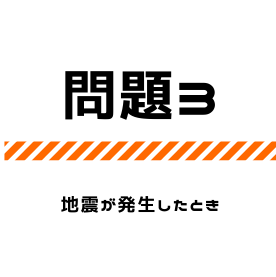
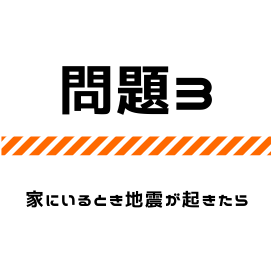
問題文へ見出しの追加

Changed region(s): [[0.2066, 0.2362, 0.797, 0.4428], [0.0, 0.5018, 1.0, 0.5904], [0.0886, 0.679, 0.9151, 0.7675]]

diff --git a/static/mon3.html b/static/mon3.html
@@ -8,11 +8,11 @@
     <script>alert("問題3に挑戦です")</script> 
     <h1 style="text-align:center"> 防災のおべんきょうべや[問題３]</h1>
     <div class="ansimg" style="text-align:center"><img src="ans3.png" alt="問題１"></div>
-
-    <h1 style="text-align:center">Q_地震のゆれを感じたり、
+    <div class="mon"><h1 style="text-align:center">Q_3　家の中で地震が起きたら?</h1></div>
+    <h2 style="text-align:center">地震のゆれを感じたり、
       緊急地震速報（きんきゅうじしんそくほう）が
       ながれてきたとき、物が落ちてこない、倒れてこない、移動してこない
-      ところで、ゆれがおさまるまで様子をみる。</h1>
+      ところで、ゆれがおさまるまで様子をみる。</h2>
       <form method="GET" action="/api/answer">
         <div class="radio" style="text-align:center">
           <input type="hidden" name="id" value="3">

diff --git a/static/mon2.html b/static/mon2.html
@@ -8,8 +8,8 @@
     <script>alert("問題2に挑戦です")</script> 
     <h1 style="text-align:center"> 防災のおべんきょうべや[問題２]</h1>
     <div class="ansimg" style="text-align:center"><img src="ans2.png" alt="問題１"></div>
-
-    <h1 style="text-align:center">Q_家屋や家具の下敷きになっている人を見つけたので、大声で助けを呼び、協力して救出した</h1>
+    <div class="mon"><h1 style="text-align:center">Q_2　災害時のコミュニケーション</h1></div>
+    <h2 style="text-align:center">家屋や家具の下敷きになっている人を見つけたので、大声で助けを呼び、協力して救出した</h2>
     <form method="GET" action="/api/answer">
       <div class="radio" style="text-align:center">
         <input type="hidden" name="id" value="2">

diff --git a/static/mon5.html b/static/mon5.html
@@ -8,8 +8,8 @@
     <script>alert("問題5に挑戦です")</script> 
     <h1 style="text-align:center"> 防災のおべんきょうべや[問題５]</h1>
     <div class="ansimg" style="text-align:center"><img src="ans5.png" alt="問題１"></div>
-
-    <h1 style="text-align:center">Q_お買い物中に地震が発生したので、すぐに出口に向かった</h1>
+    <div class="mon"><h1 style="text-align:center">Q_5　人がおおぜいいる施設</h1></div>
+    <h2 style="text-align:center">Q_お買い物中に地震が発生したので、すぐに出口に向かった</h2>
     <form method="GET" action="/api/answer">
       <div class="radio" style="text-align:center">
         <input type="hidden" name="id" value="5">

diff --git a/static/mon1.html b/static/mon1.html
@@ -8,8 +8,8 @@
     <script>alert("問題1に挑戦です")</script> 
     <h1 style="text-align:center"> 防災のおべんきょうべや[問題１]</h1>
     <div class="ansimg" style="text-align:center"><img src="ans1.png" alt="問題１"></div>
-
-    <h1 style="text-align:center">Q_外で地震が起きたので、ブロック塀の近くに移動した</h1>
+    <div class="mon"><h1 style="text-align:center">Q_1　外で地震が起きたら?</h1></div>
+    <h2 style="text-align:center">外で地震が起きたので、ブロック塀の近くに移動した</h2>
     <form method="GET" action="/api/answer">
       <div class="radio" style="text-align:center">
         <input type="hidden" name="id" value="1">

diff --git a/static/mon4.html b/static/mon4.html
@@ -8,8 +8,8 @@
     <script>alert("問題4に挑戦です")</script> 
     <h1 style="text-align:center"> 防災のおべんきょうべや[問題４]</h1>
     <div class="ansimg" style="text-align:center"><img src="ans4.png" alt="問題１"></div>
-
-    <h1 style="text-align:center">Q_ゆれがおさまったら,安心してよい。</h1>
+    <div class="mon"><h1 style="text-align:center">Q_4　地震の後の行動</h1></div>
+    <h2 style="text-align:center">ゆれがおさまったら,安心してよい。</h2>
     <form method="GET" action="/api/answer">
       <div class="radio" style="text-align:center">
         <input type="hidden" name="id" value="4">

diff --git a/static/styles.css b/static/styles.css
@@ -21,3 +21,7 @@ div.container img {
 div.container img:hover {
   opacity: 0.75;
 }
+div.mon h1 {
+  padding: 1rem 2rem;
+  border: 6px double #000;
+}
